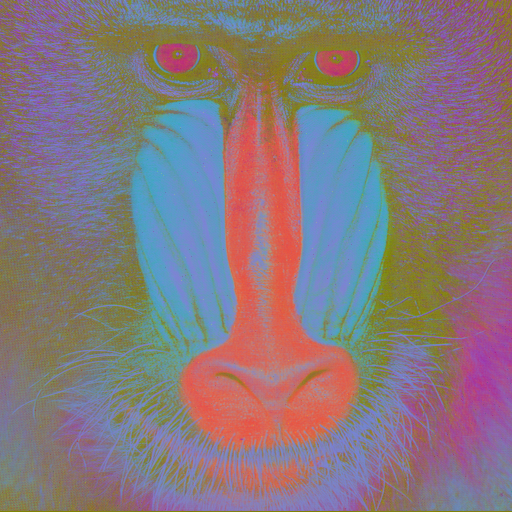
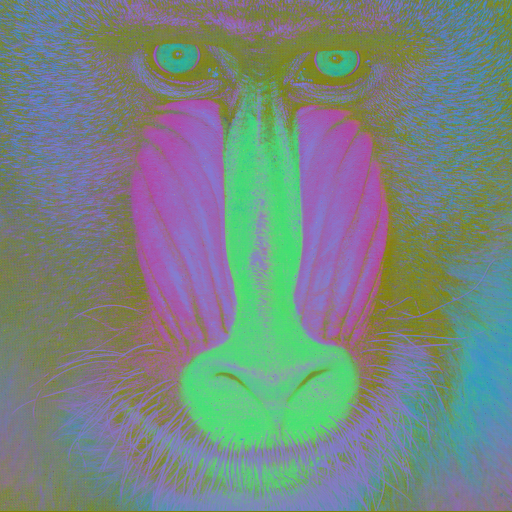
Converter RGB Images to HSI and YCrCb Images

diff --git a/main.py b/main.py
@@ -14,8 +14,8 @@ def PSNR(original, converted):
 
 # Import picture & create RGB,HSI and YCbCr copies using algorithm
 img = cv2.imread('mandrill.ppm', 1)
-hsi =  cv2.cvtColor(img, cv2.COLOR_RGB2HSV)
-ycrcb = cv2.cvtColor(img, cv2.COLOR_RGB2YCrCb)
+hsi =  cv2.cvtColor(img, cv2.COLOR_BGR2HSV)
+ycrcb = cv2.cvtColor(img, cv2.COLOR_BGR2YCrCb)
 
 cv2.imwrite('rgb.png', img)
 cv2.imwrite('hsi.png', hsi)
